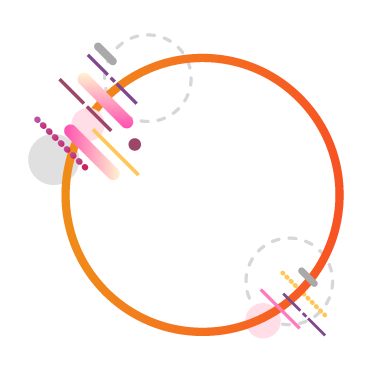
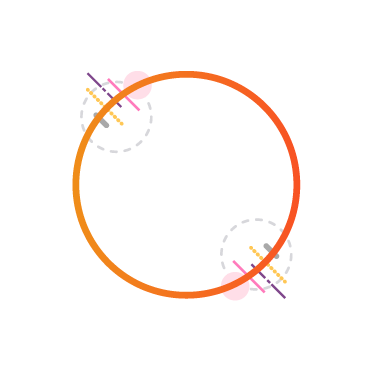
Prealoader added v2

diff --git a/js/custom/main.js b/js/custom/main.js
@@ -30,3 +30,13 @@ $((function () {
 })), $(".page-link").on("click", (function () {
     $(".page-link").removeClass("active"), $(this).addClass("active")
 }));
+// Preloader JS
+function preloader(){
+    if( $('.preloader').length ){
+        $(window).on('load', function() {
+            $('.preloader').fadeOut();
+            $('.preloader').delay(50).fadeOut('slow');  
+        })   
+    }
+}
+preloader();

diff --git a/blog-details.html b/blog-details.html
@@ -277,6 +277,10 @@
             </div>
         </div>
     </section>
+    <div class="preloader">
+        <img src="img/preloader.png" alt="" class="shape-p">
+        <img src="img/preloader1.png" alt="">
+    </div>
     <script src="js/vendor/jquery-1.12.4.min.js"></script>
     <script src="js/vendor/popper.min.js"></script>
     <script src="js/vendor/bootstrap.min.js"></script>

diff --git a/blog-list.html b/blog-list.html
@@ -454,6 +454,10 @@
             </div>
         </div>
     </section>
+    <div class="preloader">
+        <img src="img/preloader.png" alt="" class="shape-p">
+        <img src="img/preloader1.png" alt="">
+    </div>
     <script src="js/vendor/jquery-1.12.4.min.js"></script>
     <script src="js/vendor/popper.min.js"></script>
     <script src="js/vendor/bootstrap.min.js"></script>

diff --git a/portfolio-details.html b/portfolio-details.html
@@ -295,6 +295,10 @@
             </div>
         </div>
     </section>
+    <div class="preloader">
+        <img src="img/preloader.png" alt="" class="shape-p">
+        <img src="img/preloader1.png" alt="">
+    </div>
     <script src="js/vendor/jquery-1.12.4.min.js"></script>
     <script src="js/vendor/popper.min.js"></script>
     <script src="js/vendor/bootstrap.min.js"></script>

diff --git a/portfolio.html b/portfolio.html
@@ -591,6 +591,10 @@
             </div>
         </div>
     </section>
+    <div class="preloader">
+        <img src="img/preloader.png" alt="" class="shape-p">
+        <img src="img/preloader1.png" alt="">
+    </div>
     <script src="js/vendor/jquery-1.12.4.min.js"></script>
     <script src="js/vendor/popper.min.js"></script>
     <script src="js/vendor/bootstrap.min.js"></script>

diff --git a/service.html b/service.html
@@ -399,6 +399,10 @@
             </div>
         </div>
     </section>
+    <div class="preloader">
+        <img src="img/preloader.png" alt="" class="shape-p">
+        <img src="img/preloader1.png" alt="">
+    </div>
     <script src="js/vendor/jquery-1.12.4.min.js"></script>
     <script src="js/vendor/popper.min.js"></script>
     <script src="js/vendor/bootstrap.min.js"></script>

diff --git a/css/custom/index.css b/css/custom/index.css
@@ -2137,6 +2137,8 @@
 .preloader .shape-p{
     -webkit-animation: loader 4s linear infinite;
     animation: loader 4s linear infinite;
+    height: 150px;
+    z-index: 1;
 }
 
 @keyframes loader {
